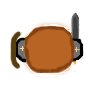
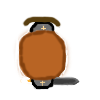
improved player rotation towards mouse to now be less off

Changed region(s): [[0.09, 0.12, 0.84, 0.9], [0.18, 0.78, 0.21, 0.84]]

diff --git a/Hirathiel/Hirathiel/Player.cpp b/Hirathiel/Hirathiel/Player.cpp
@@ -40,7 +40,7 @@ CombatAction* Player::pollEvents(SDL_Event* event, const Uint8* keystate, CTimer
 				if (angle < 0) {
 					angle = 360 - (-angle);
 				}
-				this->angle = angle + 90;
+				this->angle = angle;
 				break;
 		
 			case SDL_KEYDOWN:
